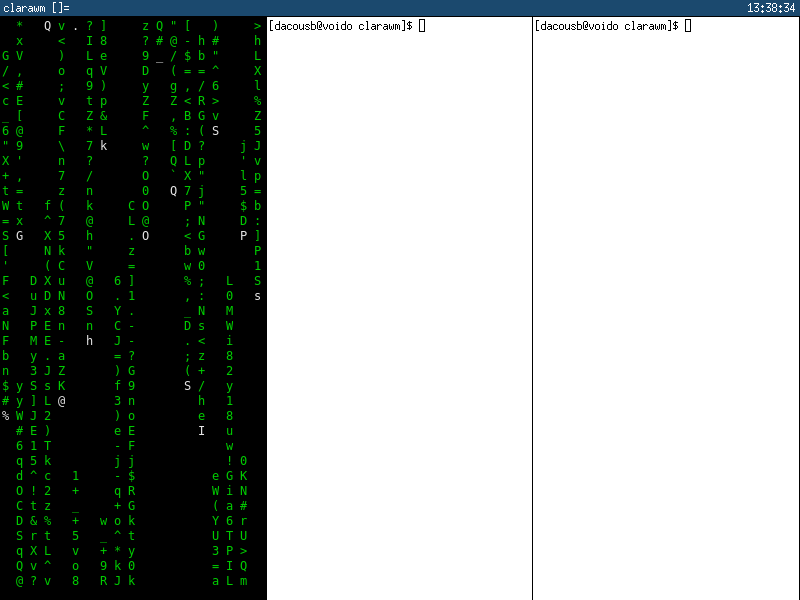
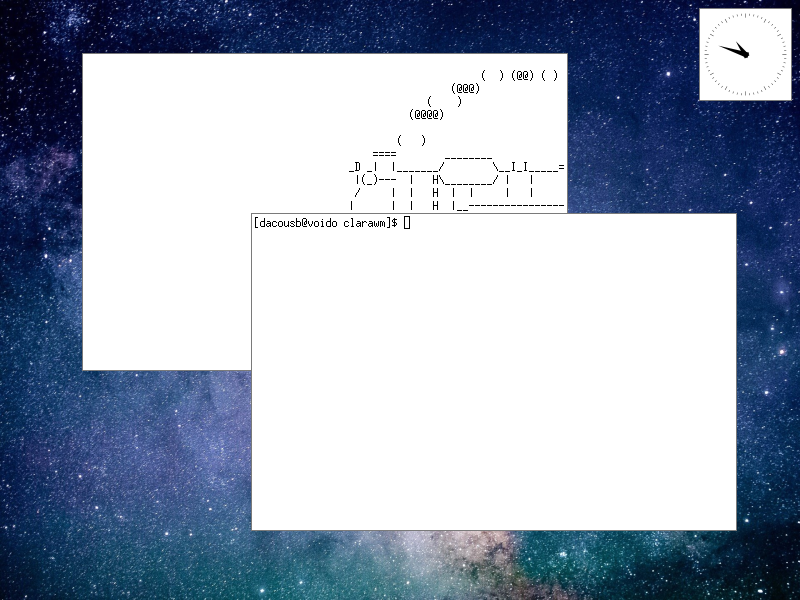
Moved to floating

diff --git a/clarawm.c b/clarawm.c
@@ -1,7 +1,7 @@
 /* See LICENSE file for copyright and license details
  * Anyways, this software is released under the MIT license
  *
- * clarawm is designed to be a simple tiling window manager,
+ * clarawm is designed to be a simple floating window manager,
  * fast and with a light and simple code base, so that
  * anyone can understand the code.
  */
@@ -10,27 +10,19 @@
 #include <X11/keysym.h>
 #include <stdio.h>
 #include <stdlib.h>
-#include <string.h>
-#include <time.h>
 #include <unistd.h>
 
 #define MAX(a, b) ((a) > (b) ? (a) : (b))
-#define tiling 1
-#define floating 0
-typedef int mode;
 
 Display *dpy;
 Screen *screen;
-GC gc;
 
-Window root, menu;
+Window root;
 XWindowAttributes attr;
 
 XKeyEvent key;
 XButtonEvent start;
 XEvent ev;
-
-mode wm_mode = tiling; /* default mode is tiling */
 
 static char *dmenu[] = {"dmenu_run", NULL};
 static char *xterm[] = {"xterm", NULL};
@@ -71,38 +63,15 @@ void set_color(char *hex)
     XAllocColor(dpy, colormap, &color);
 }
 
-void draw_menu(void)
-{
-    set_color("#1b496e");
-    menu = XCreateSimpleWindow(dpy, root,
-                               0, 0, screen->width, 16,
-                               0, 0, color.pixel);
-    XMapWindow(dpy, menu);
-    XFlush(dpy);
-}
-
-void draw_text(const char *text, int x, int y)
-{
-    set_color("#ffffff");
-    XSetForeground(dpy, gc, color.pixel);
-    XSelectInput(dpy, menu, ExposureMask);
-
-    Font font = XLoadFont(dpy, "fixed");
-    XSetFont(dpy, gc, font);
-    XDrawString(dpy, menu, gc, x, y, text, strlen(text));
-}
-
-void tile()
+void borders()
 {
     unsigned int n;
     Window d1, d2, *wins = NULL;
     XQueryTree(dpy, root, &d1, &d2, &wins, &n);
     for (int i = 0; i < n; i++)
     {
-        if (wins[i] != menu)
-            XMoveResizeWindow(dpy, wins[i],
-                              (n == 2) ? 0 : screen->width / (n - 1) * (i - 1), 16,
-                              (n == 2) ? screen->width : screen->width / (n - 1), screen->height - 16);
+        set_color((wins[i] == start.subwindow) ? "#1b496e" : "#7a7a7a");
+        XSetWindowBorder(dpy, wins[i], color.pixel);
     }
     if (wins)
         XFree(wins);
@@ -113,7 +82,6 @@ int main(void)
     if (!(dpy = XOpenDisplay(NULL)))
         die("cannot open display");
 
-    gc = DefaultGC(dpy, 0);
     root = DefaultRootWindow(dpy);
     screen = DefaultScreenOfDisplay(dpy);
 
@@ -121,28 +89,13 @@ int main(void)
     XGrabKey(dpy, XKeysymToKeycode(dpy, XK_D), Mod4Mask, root, True, GrabModeAsync, GrabModeAsync);
     XGrabKey(dpy, XKeysymToKeycode(dpy, XK_Q), Mod4Mask, root, True, GrabModeAsync, GrabModeAsync);
     XGrabKey(dpy, XKeysymToKeycode(dpy, XK_K), Mod4Mask, root, True, GrabModeAsync, GrabModeAsync);
-    XGrabKey(dpy, XKeysymToKeycode(dpy, XK_M), Mod4Mask, root, True, GrabModeAsync, GrabModeAsync);
     XGrabButton(dpy, AnyButton, Mod4Mask, root, True, ButtonPressMask | ButtonReleaseMask | PointerMotionMask | OwnerGrabButtonMask,
                 GrabModeAsync, GrabModeAsync, None, None);
 
     start.subwindow = None;
-    draw_menu();
     for (;;)
     {
-        if (wm_mode == tiling)
-            tile();
-
-        XClearWindow(dpy, menu);
-
-        char buff[12];
-        sprintf(buff, "clarawm %s", (wm_mode == tiling) ? "[]=" : "<><");
-        draw_text(buff, 4, 12);
-
-        time_t now = time(NULL);
-        struct tm *time = localtime(&now);
-        sprintf(buff, "%d:%02d:%02d", time->tm_hour, time->tm_min, time->tm_sec);
-        draw_text(buff, screen->width - 52, 12); /* only updates on events */
-
+        borders();
         XNextEvent(dpy, &ev);
         if (ev.type == KeyPress)
         {
@@ -153,23 +106,37 @@ int main(void)
                 spawn(dmenu);
             else if (key.keycode == XKeysymToKeycode(dpy, XK_Q))
             {
-                if (ev.xbutton.subwindow != None && ev.xbutton.subwindow != menu)
+                if (ev.xbutton.subwindow != None)
                     kill_win(ev.xbutton.subwindow);
             }
             else if (key.keycode == XKeysymToKeycode(dpy, XK_K))
                 break;
-            else if (key.keycode == XKeysymToKeycode(dpy, XK_M))
-                wm_mode = (wm_mode == tiling) ? floating : tiling;
         }
-        if (wm_mode == floating)
+        else if (ev.type == ButtonPress && ev.xbutton.subwindow != None)
         {
-            if (ev.type == ButtonPress && ev.xbutton.subwindow != None)
-            {
-                start = ev.xbutton;
-                XRaiseWindow(dpy, start.subwindow);
-                XGetWindowAttributes(dpy, start.subwindow, &attr);
-            }
-            else if (ev.type == MotionNotify && start.subwindow != None && start.subwindow != menu)
+            start = ev.xbutton;
+            XRaiseWindow(dpy, start.subwindow);
+            XGetWindowAttributes(dpy, start.subwindow, &attr);
+        }
+        else if (ev.type == MotionNotify && start.subwindow != None)
+        {
+            if (ev.xbutton.y_root < 20) /*U*/
+                XMoveResizeWindow(dpy, start.subwindow,
+                                  0, 0,
+                                  screen->width, screen->height / 2);
+            else if (ev.xbutton.y_root > screen->height - 20) /*U*/
+                XMoveResizeWindow(dpy, start.subwindow,
+                                  0, screen->height / 2,
+                                  screen->width, screen->height / 2);
+            else if (ev.xbutton.x_root < 20) /*L*/
+                XMoveResizeWindow(dpy, start.subwindow,
+                                  0, 0,
+                                  screen->width / 2, screen->height);
+            else if (ev.xbutton.x_root > screen->width - 20) /*R*/
+                XMoveResizeWindow(dpy, start.subwindow,
+                                  screen->width / 2, 0,
+                                  screen->width / 2, screen->height);
+            else
             {
                 int xdiff = ev.xbutton.x_root - start.x_root;
                 int ydiff = ev.xbutton.y_root - start.y_root;
@@ -179,9 +146,9 @@ int main(void)
                                   MAX(1, attr.width + (start.button == 3 ? xdiff : 0)),
                                   MAX(1, attr.height + (start.button == 3 ? ydiff : 0)));
             }
-            else if (ev.type == ButtonRelease)
-                start.subwindow = None;
         }
+        else if (ev.type == ButtonRelease)
+            start.subwindow = None;
     }
     XCloseDisplay(dpy);
     return 0;

diff --git a/README.md b/README.md
@@ -1,7 +1,7 @@
 # clarawm
-> *a simple tiling/floating window manager*
+> *a simple floating window manager*
 
-clarawm is designed to be a simple tiling/floating window manager, fast and with a light and simple code base, so that anyone can understand the code.
+clarawm is designed to be a simple floating (with drag and drop tiling) window manager, fast and with a light and simple code base, so that anyone can understand the code.
 
 ![screenshot](image.png)
 
@@ -15,20 +15,12 @@ The default configured modifier is Mod4 (⌘). This can be combined with the fol
 | ⌘ | d      | Open dmenu    |
 | ⌘ | q      | Close window  |
 | ⌘ | k      | Kill wm       |
-| ⌘ | m      | Change mode   |
 | ⌘ | MouseL | Move window   |
 | ⌘ | MouseR | Resize window |
 
-The available modes (toggleable with Mod4+m) are:
-- `[]=` Tiling
-- `<><` Floating
-
 ## To do
 Looking to get involved in the project or just know what do clarawm need to improve? Here it is:
-- Fix bugs in tiling mode, which detects hidden windows.
-- Better tiling (vertical and horizontal).
-- Interactive tiling.
-- More information on the top menu.
+- Create a true tiling mode.
 - Try to introduce virtual workspaces.
 
 Note: clarawm is not intended to replace other window managers, I was just looking for a clean and simple manager for me.
